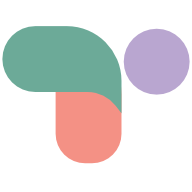
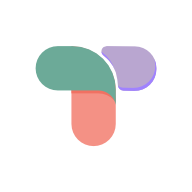
fix consistency ofbranding and tagline on quiz, multiligual, index, hero etc., add og-image

Changed region(s): [[0.0, 0.125, 1.0, 0.875]]

diff --git a/src/data/translations/id.ts b/src/data/translations/id.ts
@@ -36,7 +36,7 @@ export const idTranslations: TranslationKeys = {
   
   // Header
   header: {
-    title: "Pembelajaran Huruf Hijaiyah",
+    title: "Tartila",
     subtitle: "Kuasai 28 huruf dengan pelafalan dan kaidah tajwid yang benar",
     language: "Bahasa"
   },
@@ -50,9 +50,9 @@ export const idTranslations: TranslationKeys = {
   // Quiz
   quiz: {
     title: "Kuis Huruf Hijaiyah",
-    subtitle: "Uji pengetahuan Anda tentang huruf-huruf Arab",
-    duolingoStyle: "Gaya Duolingo",
-    ankiStyle: "Gaya Anki",
+    subtitle: "Uji pengetahuan Kamu tentang huruf-huruf Arab",
+    duolingoStyle: "Tartila Play",
+    ankiStyle: "Tartila Deck",
     question: "Huruf apakah ini?",
     score: "Skor",
     correct: "Benar!",
@@ -73,7 +73,7 @@ export const idTranslations: TranslationKeys = {
   
   // Index page content  
   index: {
-    heroTitle: "Pembelajaran Huruf Hijaiyah",
+    heroTitle: "Tartila",
     heroSubtitle: "Kuasai 28 huruf dengan pelafalan dan kaidah tajwid yang benar",
     badges: {
       letters: "28 Huruf",
@@ -85,12 +85,12 @@ export const idTranslations: TranslationKeys = {
       takeQuiz: "Ikuti Kuis"
     },
     sections: {
-      choosePath: "Pilih Jalur Pembelajaran Anda",
-      pathSubtitle: "Mode belajar interaktif yang dirancang untuk pembelajaran Arab yang efektif",
-      interactiveTitle: "Pembelajaran Interaktif",
+      choosePath: "Pilih Gaya Belajar Kamu",
+      pathSubtitle: "Mode belajar interaktif yang dirancang untuk belajar huruf hijaiyah dan tajwid yang efektif",
+      interactiveTitle: "Belajar Interaktif",
       interactiveDesc: "Pelajari setiap huruf Arab dengan kartu belajar, pelafalan audio, dan informasi detail tentang makhraj dan karakteristik.",
-      quizTitle: "Uji Diri Anda",
-      quizDesc: "Uji pengetahuan Anda dengan kuis interaktif. Pilih antara pilihan ganda ala Duolingo atau pengulangan spasi ala Anki."
+      quizTitle: "Uji Diri Kamu",
+      quizDesc: "Uji pengetahuan Kamu dengan kuis interaktif. Pilih antara pilihan ganda ala Duolingo atau pengulangan berjangka ala Anki."
     },
     features: {
       audioTitle: "Pelafalan Audio",
@@ -102,7 +102,7 @@ export const idTranslations: TranslationKeys = {
     },
     footer: {
       mainText: "Kuasai alfabet Arab dengan pelafalan tajwid yang benar",
-      subText: "Dibuat dengan cinta untuk pelajar Arab di seluruh dunia"
+      subText: "Dibuat dengan cinta untuk pelajar Tajwid di seluruh dunia"
     }
   }
 };

diff --git a/index.html b/index.html
@@ -4,19 +4,19 @@
     <meta charset="UTF-8" />
     <meta name="viewport" content="width=device-width, initial-scale=1.0" />
     <meta name="theme-color" content="#1E7145" />
-    <title>Arabic Alphabet Learning - Interactive Learning for Muslim Youth</title>
-    <meta name="description" content="Learn Arabic alphabet with gamification, points, achievements and Islamic-inspired design. Perfect for young Muslim learners." />
-    <meta name="author" content="Lovable" />
+    <title>Tartila - Fun Tajweed on the Go</title>
+    <meta name="description" content="Learn Arabic alphabet and Tajweed  with gamification. Perfect for young Muslim learners." />
+    <meta name="author" content="Barik" />
     <link rel="manifest" href="/manifest.json" />
 
-    <meta property="og:title" content="Arabic Alphabet Learning - Interactive Learning for Muslim Youth" />
-    <meta property="og:description" content="Learn Arabic alphabet with gamification, points, achievements and Islamic-inspired design. Perfect for young Muslim learners." />
+    <meta property="og:title" content="Tartila - Fun Tajweed on the Go" />
+    <meta property="og:description" content="Learn Arabic alphabet and Tajweed  with gamification. Perfect for young Muslim learners." />
     <meta property="og:type" content="website" />
-    <meta property="og:image" content="https://lovable.dev/opengraph-image-p98pqg.png" />
+    <meta property="og:image" content="/og_image.png" />
 
     <meta name="twitter:card" content="summary_large_image" />
-    <meta name="twitter:site" content="@lovable_dev" />
-    <meta name="twitter:image" content="https://lovable.dev/opengraph-image-p98pqg.png" />
+    <meta name="twitter:site" content="@bmbarik" />
+    <meta name="twitter:image" content="/og_image.png" />
     
     <!-- Modern Islamic Fonts -->
     <link rel="preconnect" href="https://fonts.googleapis.com">

diff --git a/src/data/translations/en.ts b/src/data/translations/en.ts
@@ -35,7 +35,7 @@ export const enTranslations = {
   
   // Header
   header: {
-    title: "Arabic Alphabet Learning",
+    title: "Tartila",
     subtitle: "Master the 28 letters with proper pronunciation and tajweed rules",
     language: "Language"
   },
@@ -50,8 +50,8 @@ export const enTranslations = {
   quiz: {
     title: "Arabic Alphabet Quiz",
     subtitle: "Test your knowledge of the Arabic letters",
-    duolingoStyle: "Duolingo Style",
-    ankiStyle: "Anki Style",
+    duolingoStyle: "Tartila Play",
+    ankiStyle: "Tartila Deck",
     question: "What is this letter?",
     score: "Score",
     correct: "Correct!",
@@ -72,7 +72,7 @@ export const enTranslations = {
   
   // Index page content
   index: {
-    heroTitle: "Arabic Alphabet Learning",
+    heroTitle: "Tartila",
     heroSubtitle: "Master the 28 letters with proper pronunciation and tajweed rules",
     badges: {
       letters: "28 Letters",
@@ -101,7 +101,7 @@ export const enTranslations = {
     },
     footer: {
       mainText: "Master the Arabic alphabet with proper tajweed pronunciation",
-      subText: "Built with love for Arabic learners worldwide"
+      subText: "Built with love for Tajweed learners worldwide"
     }
   }
 };

diff --git a/src/pages/Index.tsx b/src/pages/Index.tsx
@@ -9,7 +9,7 @@ import { StatsDisplay } from "@/components/gamification/StatsDisplay";
 import { useGamification } from "@/contexts/GamificationContext";
 import React from "react";
 
-const alphabetIllustration = "/assets/alphabet-illustration.jpg";
+const alphabetIllustration = "/favicon.ico";
 const patternDecoration = "/assets/pattern-decoration.jpg";
 
 const Index = () => {
@@ -29,8 +29,8 @@ const Index = () => {
           <div className="flex justify-center mb-8">
             <div className="relative">
               <img
-                src={alphabetIllustration}
-                alt="Arabic Alphabet"
+                src="/icon-192.png"
+                alt="Tartila"
                 className="w-20 h-20 md:w-28 md:h-28 rounded-full border-4 border-white/50 animate-float shadow-2xl"
               />
               <div className="absolute -inset-2 bg-white/10 rounded-full animate-float"></div>
